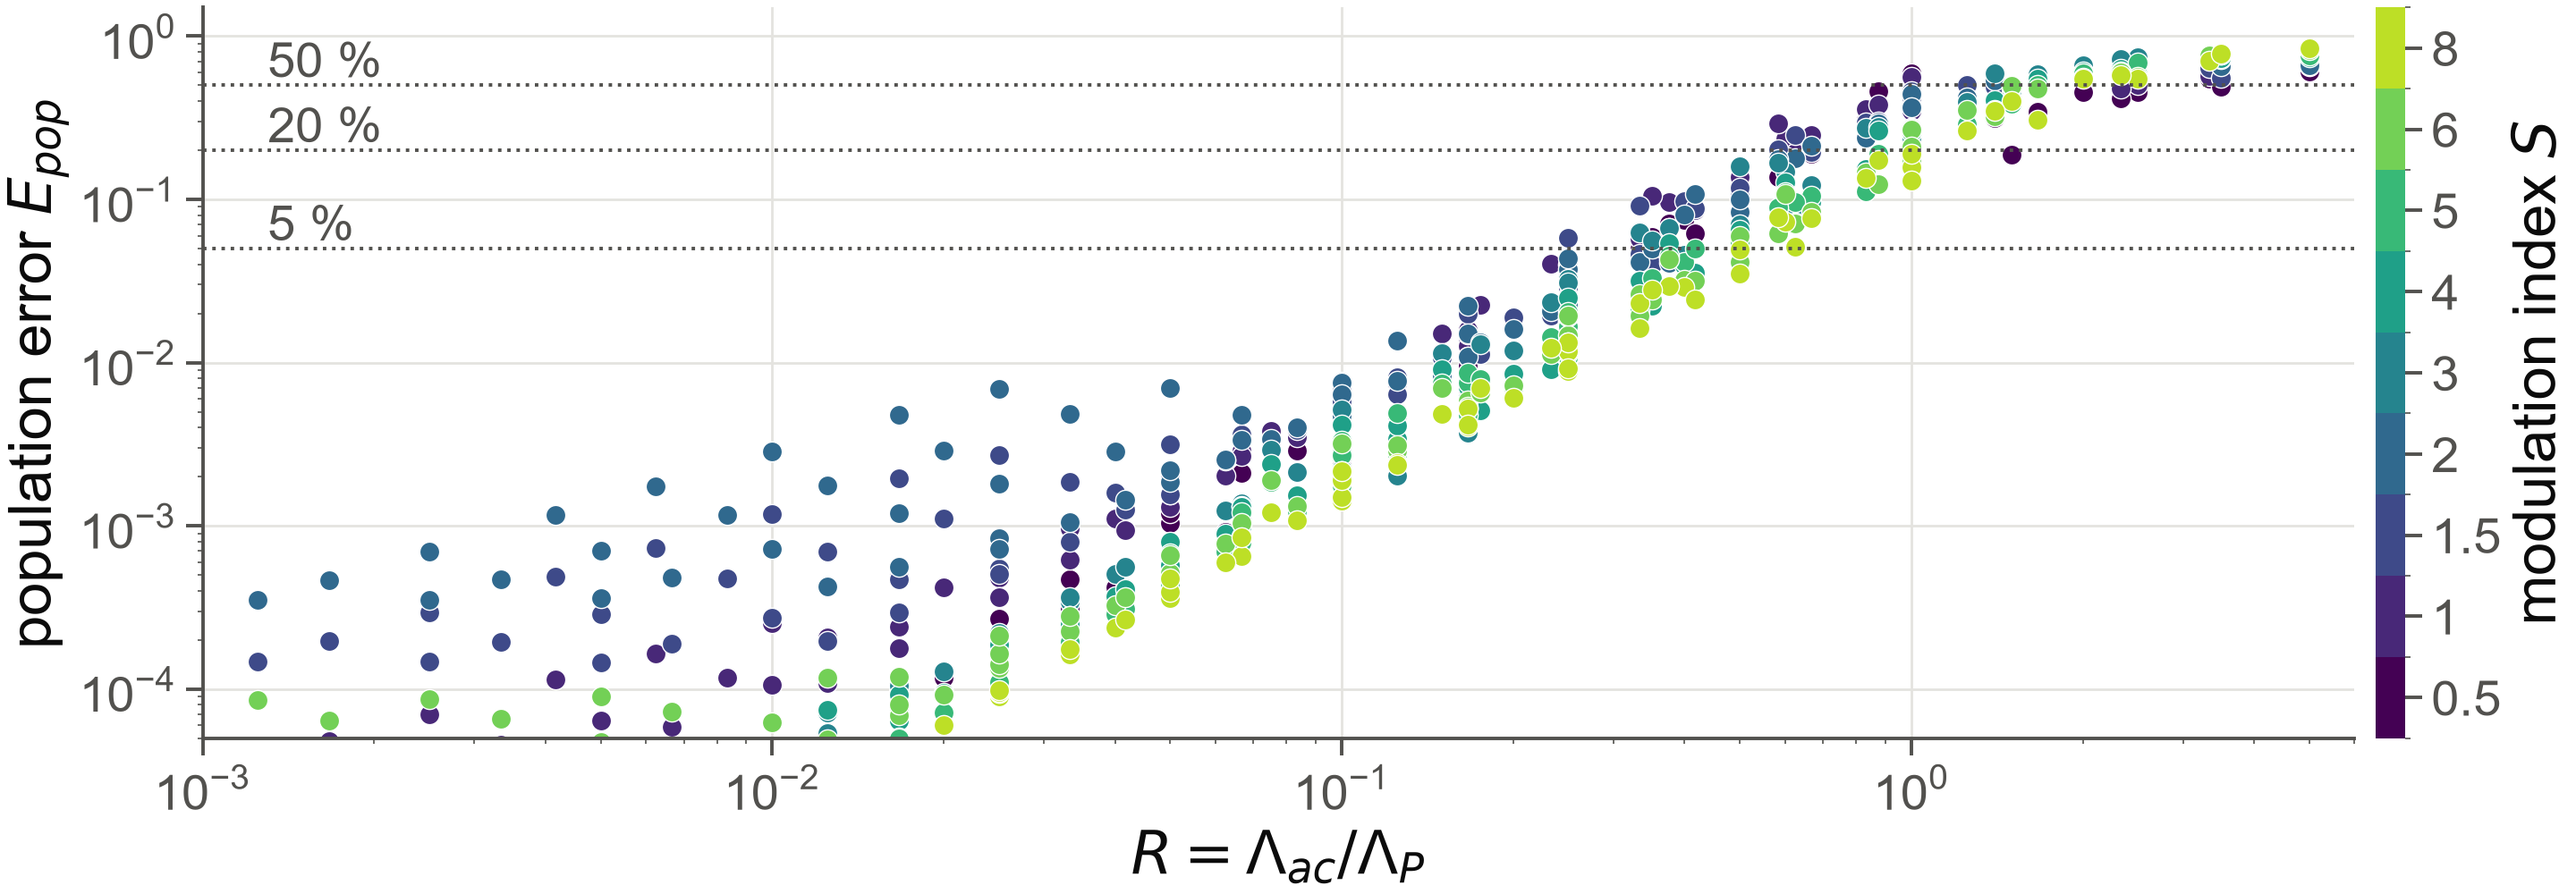
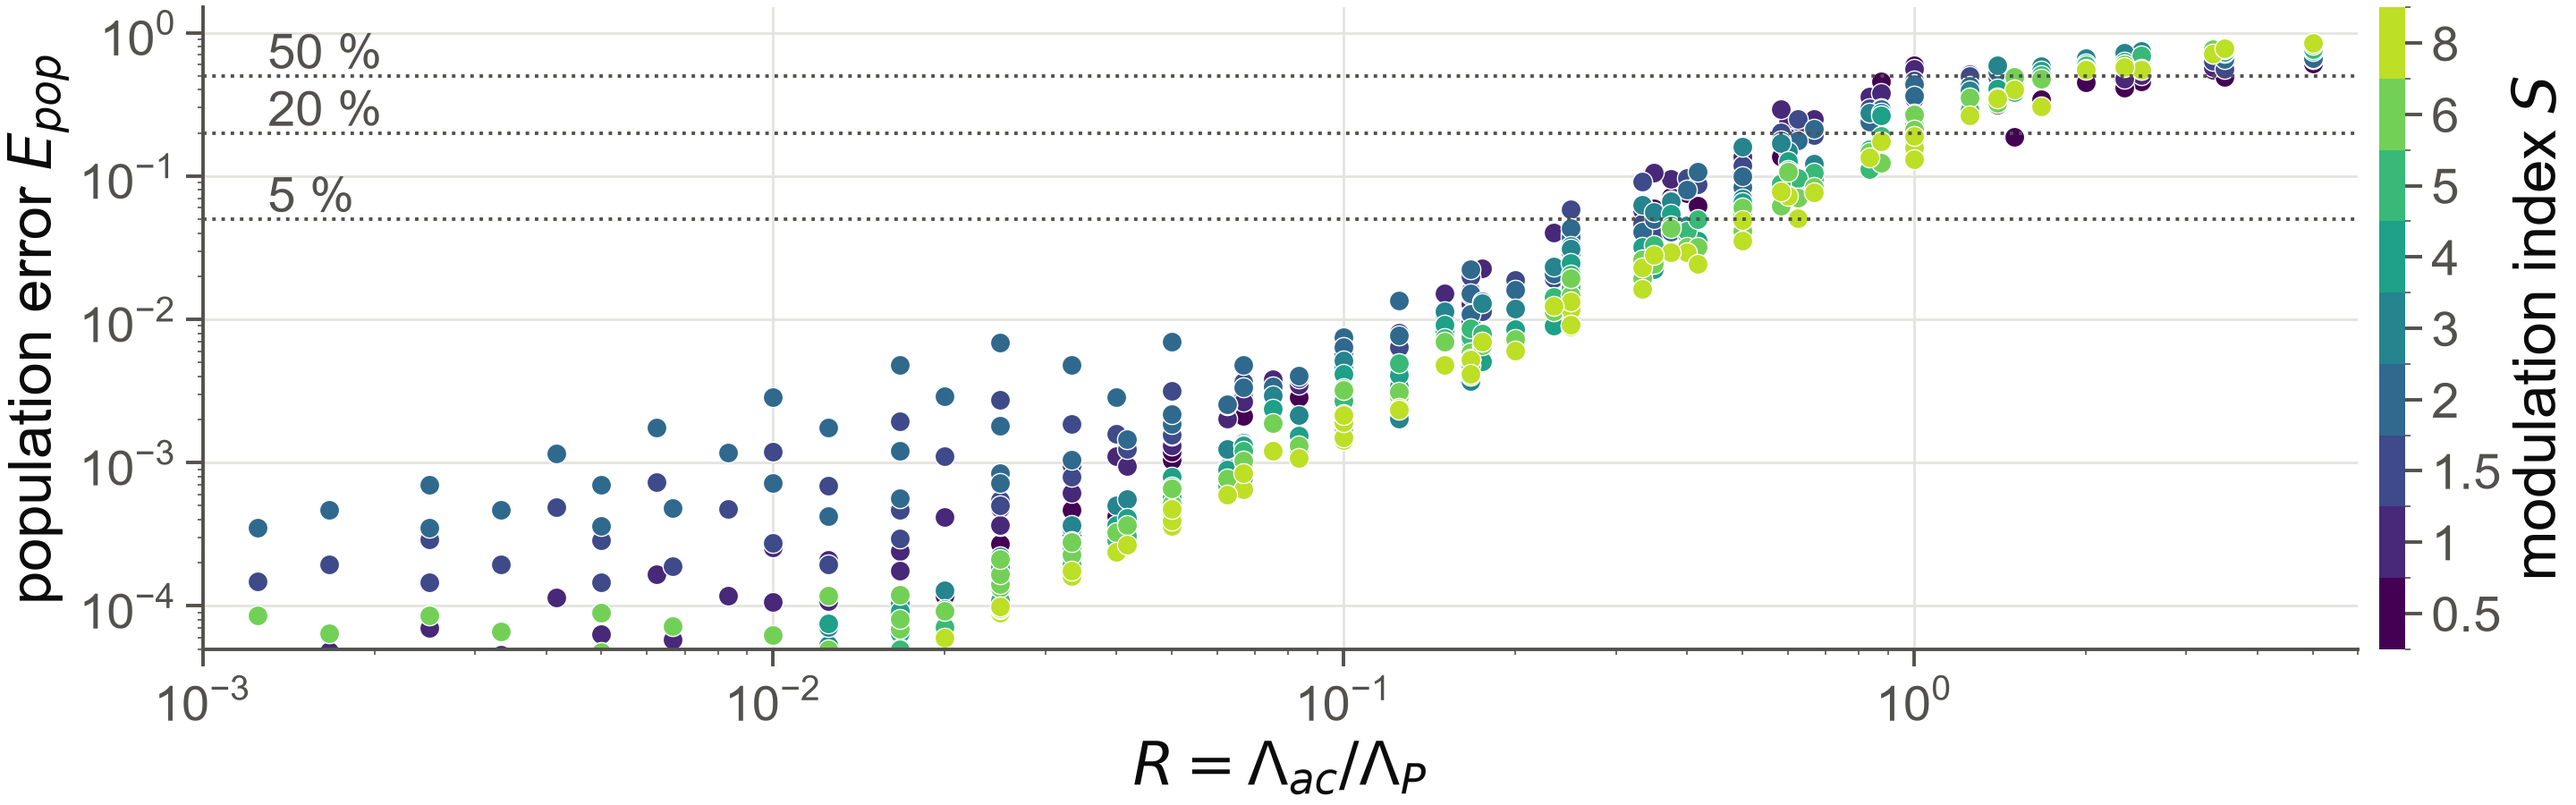
Literature status of the transfer function (entry 60); poster outlook line; handoff update

diff --git a/poster/build.py b/poster/build.py
@@ -50,7 +50,7 @@ NOTEBOOK = ROOT / "notes" / "lab_notebook.md"
 # A0 portrait, same as the ICAMD 2025 poster (841 x 1189 mm). Check the KPS rule before printing.
 SPEC = dict(
     W=841, H=1189, margin=16, gap=14, cols=2, pad=12,
-    header_h=130, stripe_h=5, footer_h=62,
+    header_h=130, stripe_h=5, footer_h=56,
     title_pt=64, authors_pt=34, head_pt=44, body_pt=28, callout_pt=32, caption_pt=22, min_pt=20,
     leading=1.30, para_gap=7, panel_gap=14, fig_gap=4,
     navy="#0f2a3a", page="#efefef", card="#ffffff", head="#2f5597", ink="#1b1b1b", ink2="#55524c",

diff --git a/explore/make_poster_figs.py b/explore/make_poster_figs.py
@@ -150,7 +150,7 @@ def f4():
     import make_phase_figure as M
     style()
     P = M.merged()
-    fig, ax = plt.subplots(figsize=(FIG_W, 5.0), constrained_layout=True)
+    fig, ax = plt.subplots(figsize=(FIG_W, 4.5), constrained_layout=True)
     Ss = sorted(set(P[:, 2]))
     hues = plt.cm.viridis(np.linspace(0, 0.9, len(Ss)))
     for c, S in zip(hues, Ss):

diff --git a/notes/lab_notebook.md b/notes/lab_notebook.md
@@ -3468,3 +3468,37 @@ half-width, collapses onto a single curve for all three packet spectra
 - Nonlinear S (harmonics, mixing).
 - A real-crystal parameter set.
 - A literature check of the linear-response form.
+
+---
+
+## 2026-10-02 — Entry 60: literature status of the Entry 59 transfer function (search only)
+
+**Evidence level.** Web search results and one abstract. No full text was read.
+
+**Found.**
+- Shayduk, Herzog, Bojahr, Schick, Gaal, Leitenberger, Navirian, Sander, Goldshteyn, Vrejoiu,
+  Bargheer, Phys. Rev. B 87, 184301 (2013), arXiv:1303.5643: "Direct time domain sampling of
+  sub-THz coherent acoustic phonon spectra in SrTiO3 using ultrafast X-ray diffraction".
+  - They determine a generated phonon spectrum from ultrafast XRD and find a k-dependent
+    phonon lifetime (Akhiezer 1/omega^2).
+  - Quote from the abstract: "the observed shift of the synthesized spectrum to the higher q is
+    discussed in the framework of non-linear effects".
+  - **Hypothesis to check, not a claim:** the dynamical suppression of the weight at low
+    frequency (Entry 59, section 3) also shifts an apparent spectrum to higher q. Whether their
+    analysis divides out a transfer function is not known from the abstract.
+- "Reconstructing longitudinal strain pulses using time-resolved x-ray diffraction"
+  (ResearchGate entry; fetch refused): strain reconstruction from UXRD is an established topic.
+- "Concepts and use cases for picosecond ultrasonics with x-rays", arXiv:2302.14116 (review,
+  Bargheer group). Likely to state the standard kinematic relation. Not read.
+- "Time-Dependent Dynamical Diffraction Theory for Phonon-Type Distortions", Springer chapter
+  (doi via link.springer.com/chapter/10.1007/978-1-4615-0387-3_10). Not read.
+
+**Status.**
+- The kinematic heterodyne weighting (W ~ |r0| |phi^|, i.e. ~|eps^|/omega^2) is probably known
+  in this community.
+- Whether the full first-order dynamical closed form (Entry 59 section 2, with 1 - R0^2 and
+  the 2 c R0 extinction term) and its one-curve suppression near the Darwin width are published
+  is **open**.
+
+**Needed.** Read Shayduk 2013 (analysis section), the 2023 review, and the Springer chapter.
+Then decide whether Entry 59 is a correction worth a short paper.

diff --git a/poster/poster.md b/poster/poster.md
@@ -44,19 +44,20 @@ A travelling acoustic wave enters a perfect crystal. The steady-state satellites
 
 ## Formation remembers the path
 
-The crystal records the last $t_{tr}$ of the drive, and satellite $n$ reads it as $\Theta_n = \int J_n(S\,A(t-\zeta))\,d\zeta$ ($\sin^2\Theta_n$ in Laue, $\tanh^2\Theta_n$ in Bragg). An order forbidden at the final amplitude, $J_1(S_f)=0$, becomes the brightest line during formation. {E28}{E30}{E34}
+Satellite $n$ reads the last $t_{tr}$ of the drive, $\Theta_n = \int J_n(S\,A(t-\zeta))\,d\zeta$. An order forbidden at the final amplitude, $J_1(S_f)=0$, is the brightest line during formation. {E28}{E30}{E34}
 
 ![Laue, $\alpha=0.5$: points full TT, lines the $\Theta_n$ law.](figures/poster/f3_memory.png){E28}{E30}
 
 ## Validity map of the satellite picture
 
 - With the exact acoustic-phase average, satellites stay independent channels (error below 5%) up to $R$ = 0.34–0.57, depending on $S$. {E53}{E54}
-- Beyond it, near the X-ray–acoustic resonance $R \sim 1$, Bessel-dark orders reappear through a third-order coupling $\pi\alpha (R/2)^2 C_n(S)$. {E45}{E50}{E52}
+- Near the X-ray–acoustic resonance $R \sim 1$, Bessel-dark orders reappear via a third-order coupling $\pi\alpha (R/2)^2 C_n(S)$. {E45}{E50}{E52}
 
 ![](figures/poster/f4_regime.png){E54}
 
 ## Conclusion and outlook
 
 - Satellite formation is governed by a dynamical clock set by each order's extinction length, with closed-form laws in Laue and Bragg. {E1}{E9}{E33}
-- Acoustic phase steps act as tunable, moving stacking faults, quantitatively matching Authier–Simon theory (1–3 %). {E56}
+- Acoustic phase steps act as tunable, moving stacking faults (Authier–Simon theory to 1–3 %). {E56}
 - Si 440, 17–30 keV, 0.6–2 GHz: $\tau_1$ = 17–30 ns, with in-situ $S$ from $\tau_2/\tau_1$ to ~1 %. {E13}{E20}
+- Outlook: a closed-form transfer function turns Bragg oscillations into phonon spectra. {E59}
